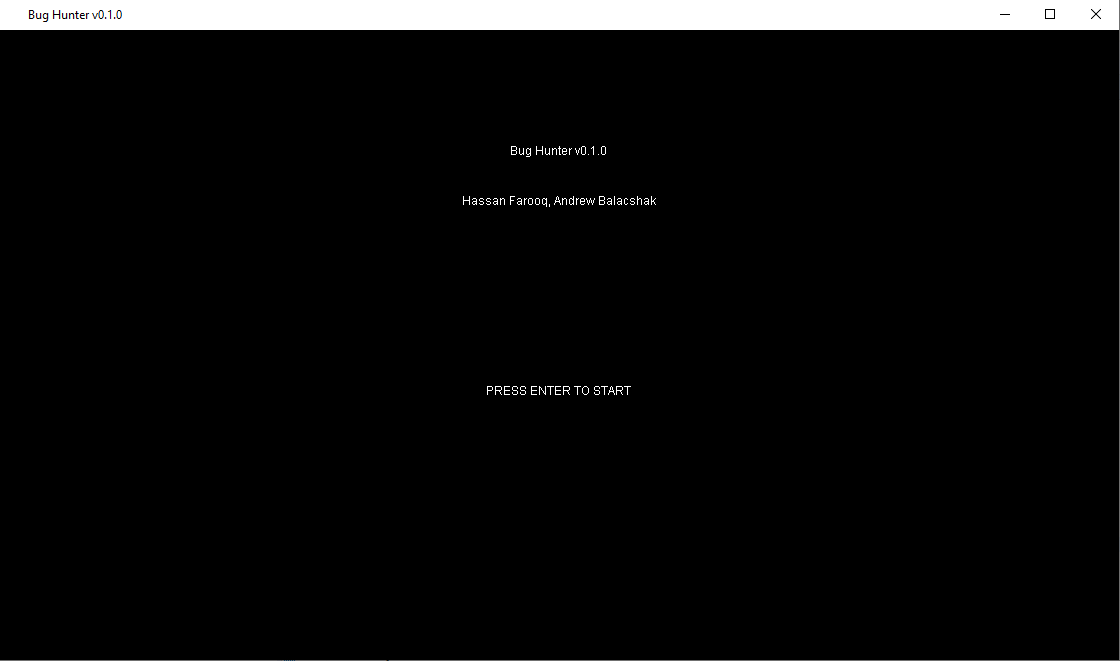
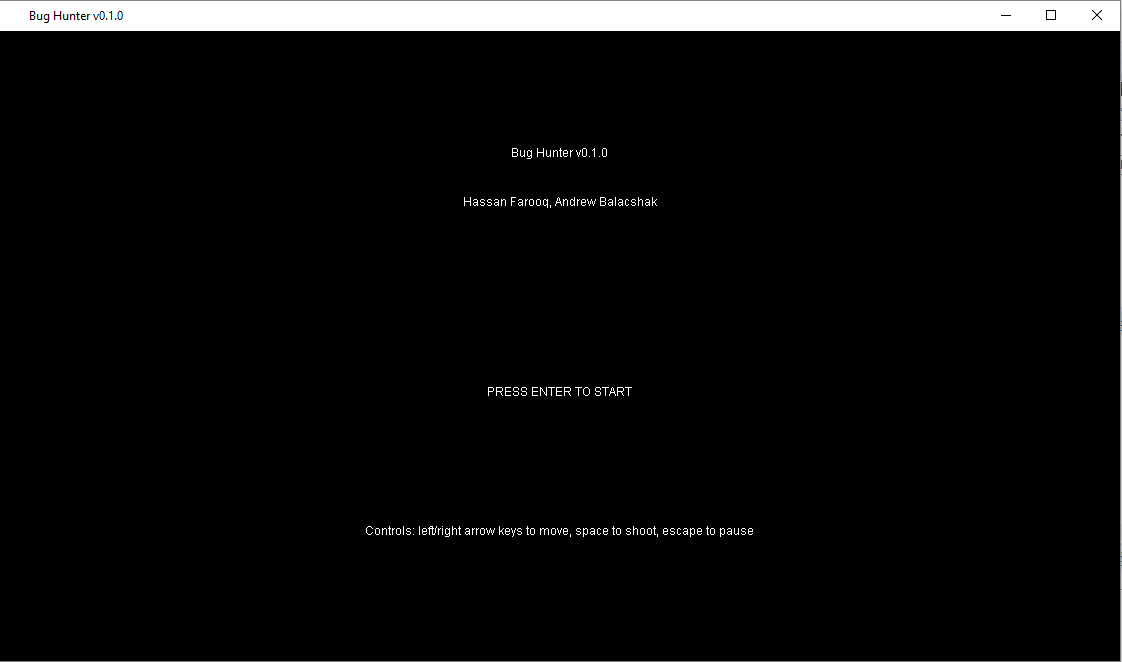
Updated start screen

diff --git a/BugHunter/src/bugHunter/Display.java b/BugHunter/src/bugHunter/Display.java
@@ -476,6 +476,7 @@ public class Display extends Canvas {
 	
 	// Creates a start screen so the game doesn't jump directly into gameplay
 	public void startScreen() {
+		int frame = 0;
 		while(!enter) {
 			// Create graphics for start screen
 			Graphics2D g = (Graphics2D) bS.getDrawGraphics();
@@ -486,17 +487,25 @@ public class Display extends Canvas {
 			
 			String authors = "Hassan Farooq, Andrew Balacshak";
 			String start = "PRESS ENTER TO START";
-			g.drawString(NAME, (getSize().width - g.getFontMetrics().stringWidth(NAME)) / 2, 125);
+			String crtls = "Controls: left/right arrow keys to move, space to shoot, escape to pause";
+			g.drawString(NAME, (getSize().width - g.getFontMetrics().stringWidth(NAME)) / 2, getSize().height / 5);
 			g.drawString(authors, (getSize().width - g.getFontMetrics().stringWidth(authors)) / 2, 175);
-			g.drawString(start, (getSize().width - g.getFontMetrics().stringWidth(start)) / 2, (getSize().height / 2) + 50);
+			
+			// Have start phrase blink
+			if(frame % 10 != 0)
+				g.drawString(start, (getSize().width - g.getFontMetrics().stringWidth(start)) / 2, (getSize().height / 2) + 50);
+			
+			g.drawString(crtls, (getSize().width - g.getFontMetrics().stringWidth(crtls)) / 2, 4 * getSize().height / 5);
 
 			// Update view
 			g.dispose();
 			bS.show();
 			
+			frame++;
+			
 			// Delay between frames
 			try {
-				Thread.sleep(100);
+				Thread.sleep(150);
 			} catch (InterruptedException e) {
 				e.printStackTrace();
 			}
@@ -504,7 +513,7 @@ public class Display extends Canvas {
 	}
 	
 	// Creates the ending screen with the user's score and top 5 scores achieved
-	public void endScreen() {
+	public void endScreen() throws FileNotFoundException {
 		while(true) {
 			Graphics2D g = (Graphics2D) bS.getDrawGraphics();
 			g.setColor(Color.black);

diff --git a/BugHunter/src/bugHunter/RunGame.java b/BugHunter/src/bugHunter/RunGame.java
@@ -13,7 +13,8 @@ public class RunGame {
 	
 	// Runs an instance of Display
 	public static void main(String[] args) throws FileNotFoundException {
-		Display d = new Display(); // Creates instance of Display
+		// Creates an instance of Display
+		Display d = new Display(); 
 		d.createObjects();
 		d.gameRun();
 	}
